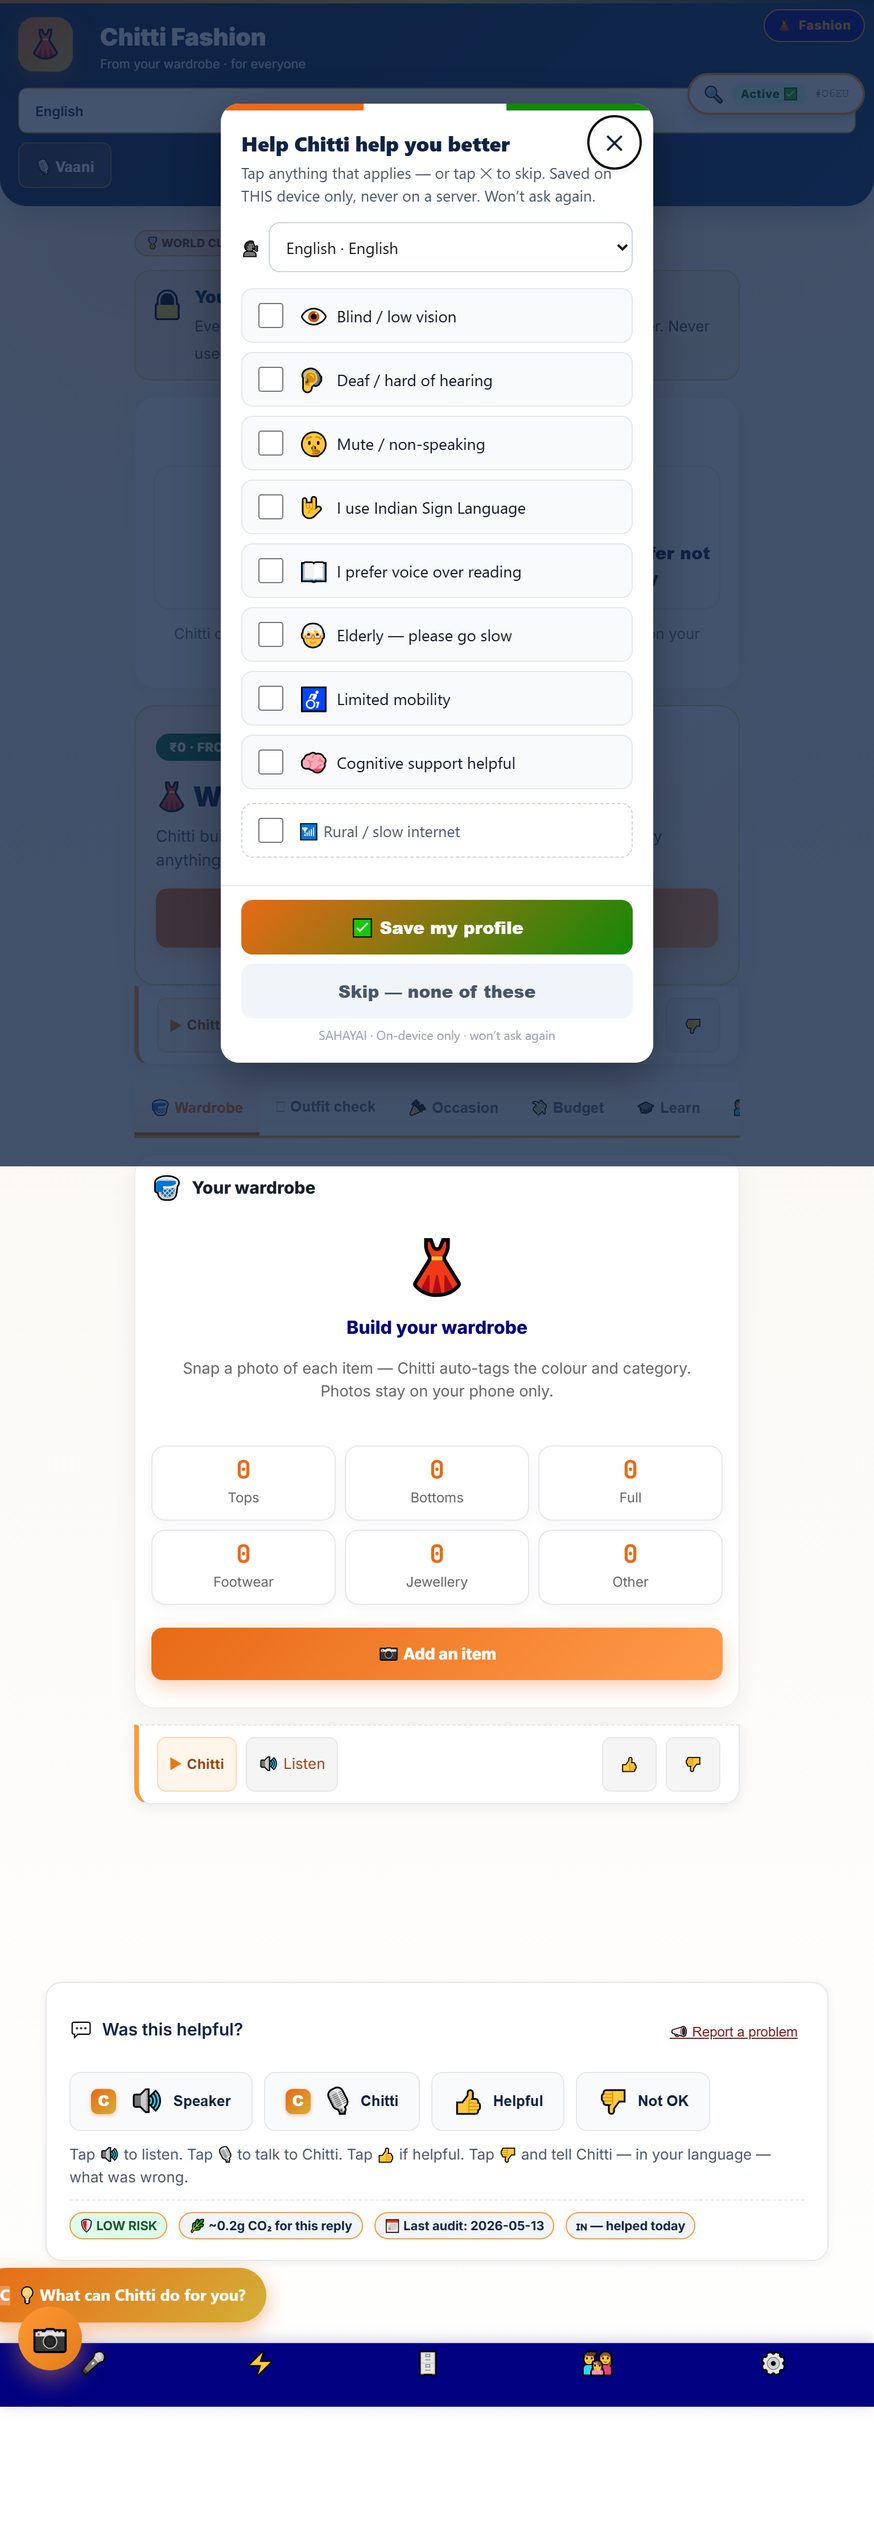
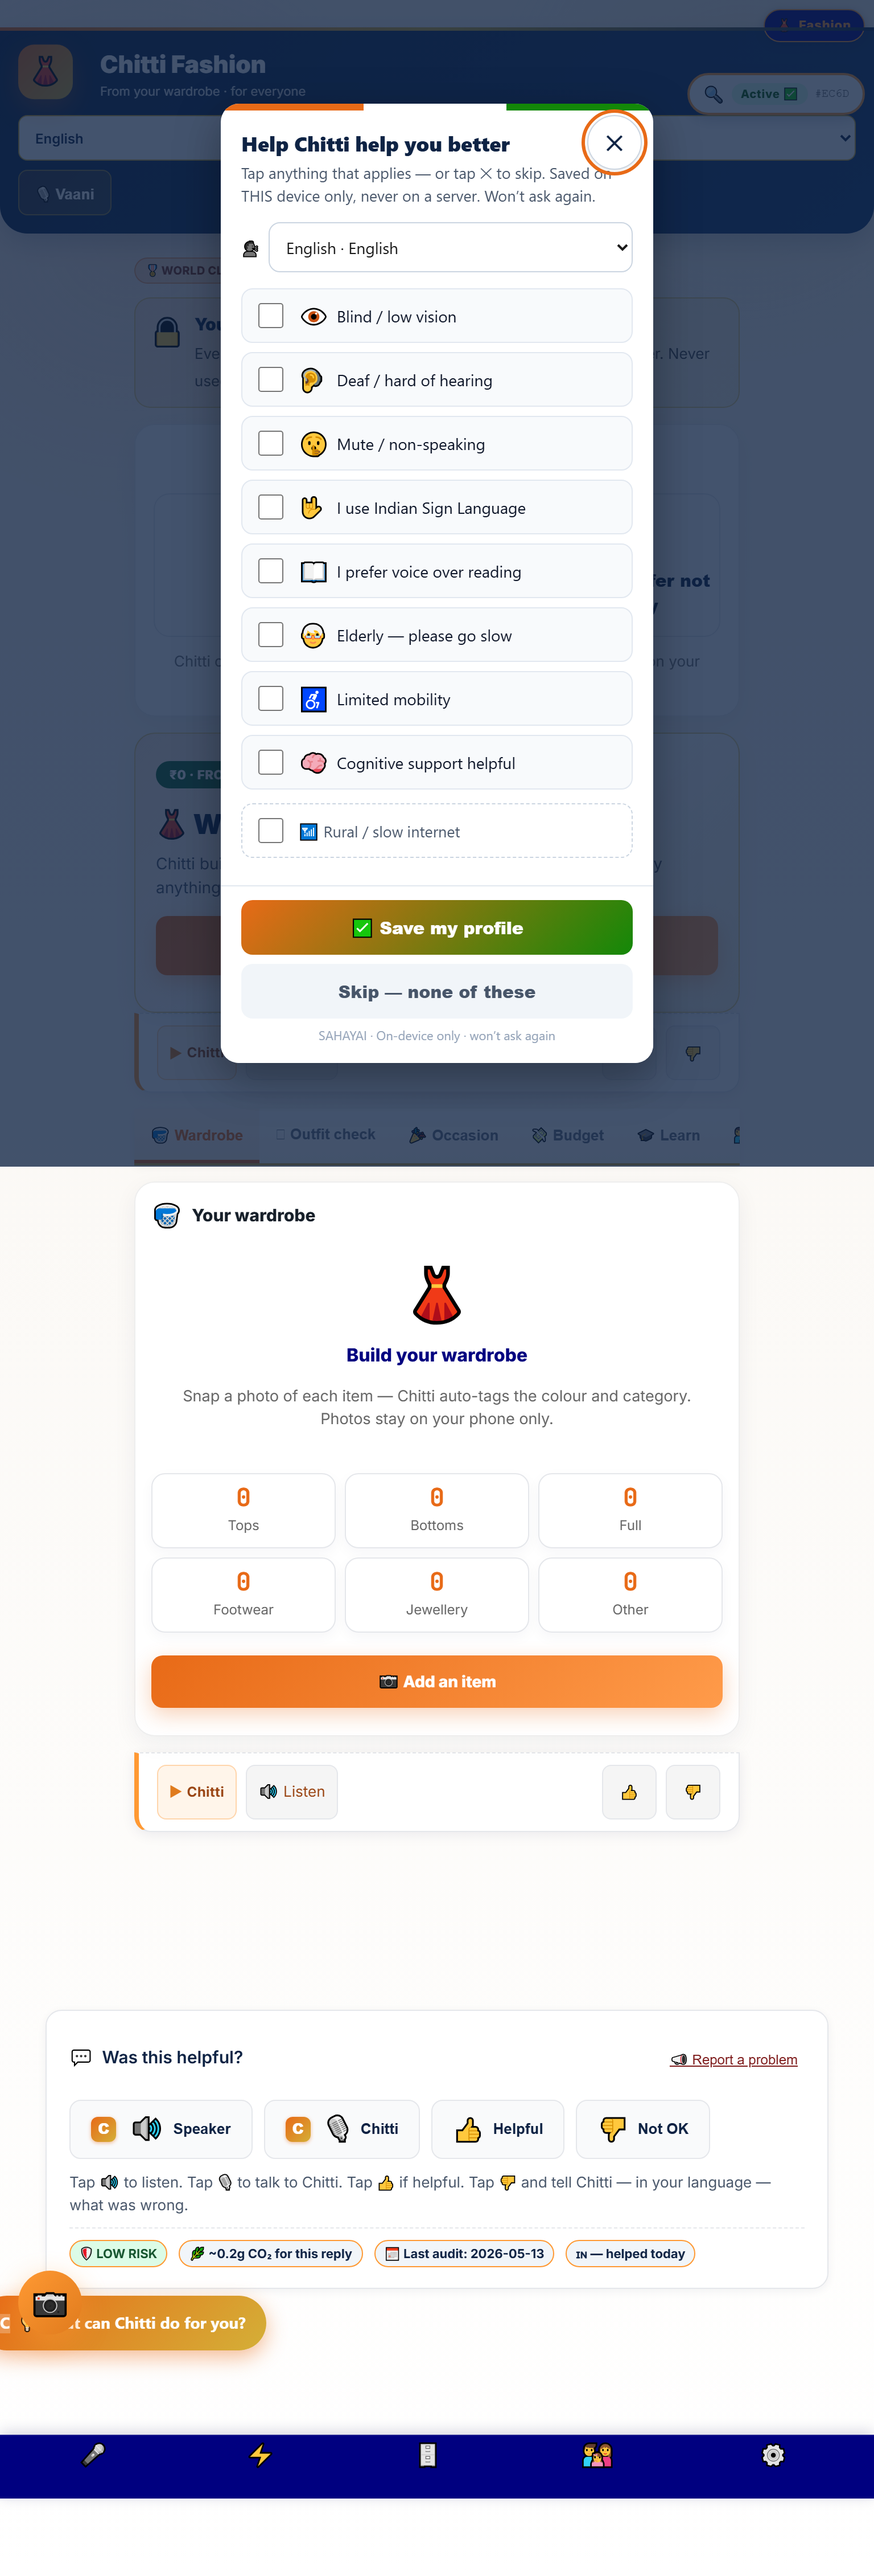
feat(fashion,a11y): REDO via research + test-gated Build Order (four-users-first)
Process the right way: RESEARCH_BEST_APPS.md (world-class a11y+fashion apps) ->
BUILD_ORDER.md (BO1..BO11, four users as FOUNDATION, each test-gated) -> executed.
Building accessibility-first surfaced real defects the sighted-first structure hid:
- BO1: NO aria-live anywhere -> blind users never announced on results. Now 18/18
  result hosts are polite live regions (faWireLive). + skip-link, main landmark,
  single h1, role=tab+aria-selected (faTab manages).
- BO5: prefers-reduced-motion (kills logo float), prefers-contrast, forced-colors,
  visible :focus-visible rings.
All BOs GREEN: engine 66/66, gold 91.6%, QA 50/50, cert 14/14, a11y 107/107,
axe 0 violations, journeys 5/5 (blind/deaf/mute/illiterate), cross-engine 9/9.
ui.css v=20260606. + HANDOVER_BUILD_ORDER.md.

diff --git a/chitti_fashion.html b/chitti_fashion.html
@@ -16,7 +16,7 @@
 <link rel="preconnect" href="https://fonts.gstatic.com" crossorigin>
 <link rel="stylesheet" href="https://fonts.googleapis.com/css2?family=Inter:wght@400;500;600;700;800;900&family=JetBrains+Mono:wght@600;700&display=swap">
 <!-- UI aligned to chitti_medupi.html design system — loaded LAST so it governs the look (logic untouched) -->
-<link rel="stylesheet" href="chitti_fashion_ui.css?v=20260605d">
+<link rel="stylesheet" href="chitti_fashion_ui.css?v=20260606">
 <!-- strings.js + chitti_lang.js before paint so i18n keys resolve; defer keeps parse non-blocking -->
 <script src="strings.js?v=20260605" defer></script>
 <script src="chitti_lang.js?v=20260605" defer></script>
@@ -133,6 +133,9 @@ body{font-size:17px}
 </head>
 <body class="sds-page fa-body">
 
+<!-- BO1 blind-first: skip-to-content for screen-reader + keyboard users -->
+<a class="fa-skip" href="#fa-main">⏭ Skip to content</a>
+
 <div class="sds-tricolour fixed"></div>
 
 <header class="sds-header" role="banner" style="margin-top:6px">
@@ -155,7 +158,7 @@ body{font-size:17px}
   </div>
 </header>
 
-<main>
+<main id="fa-main" role="main">
   <h1 style="position:absolute;width:1px;height:1px;padding:0;margin:-1px;overflow:hidden;clip:rect(0,0,0,0);white-space:nowrap;border:0">Chitti Fashion — voice-first wardrobe stylist for every Indian</h1>
   <div style="margin:4px 0 12px"><span class="fa-badge">🎖 World Class Chitti Fashion — Commando Discipline</span></div>
 
@@ -1662,9 +1665,18 @@ async function faModeLens(band){
 }
 
 /* ════════ boot ════════ */
+function faWireLive(){
+  document.querySelectorAll('.fa-result, #fa-coach-plan, #fa-twin-body').forEach(function(el){
+    if (el && !el.getAttribute('aria-live')) { el.setAttribute('aria-live', 'polite'); el.setAttribute('role', 'status'); el.setAttribute('aria-atomic', 'false'); }
+  });
+}
 function faBoot(){
   CURRENT_LANG = faDetectLang();
   document.documentElement.lang = CURRENT_LANG;
+  // BO1 blind-first: every result host is an aria-live region so screen readers
+  // announce results the moment they render (not only via TTS). role=status = polite.
+  // Re-swept after init to catch dynamically-created hosts (e.g. the coach plan).
+  faWireLive(); setTimeout(faWireLive, 1500);
   const sel = document.getElementById('lang-select'); if (sel) sel.value = CURRENT_LANG;
   faMaybeOnboard();
   try { localStorage.setItem('chitti_vaani_lang', CURRENT_LANG); } catch(e){}

diff --git a/chitti_fashion_ui.css b/chitti_fashion_ui.css
@@ -209,3 +209,35 @@ a.fa-btn { display: inline-flex; align-items: center; justify-content: center; t
 
 @media (min-width: 760px) { main { max-width: 1100px; margin: 0 auto; } }
 @media (max-width: 640px) { .sds-brand-name { font-size: 18px !important; } .fa-tabbar button { font-size: 12px !important; padding: 12px 10px !important; } }
+
+/* ════════ BO1 blind/keyboard-first: skip link + visible focus ════════ */
+.fa-skip {
+  position: fixed; top: -60px; left: 8px; z-index: 9999; background: #0E2344; color: #fff;
+  padding: 10px 16px; border-radius: 0 0 10px 10px; font-weight: 800; text-decoration: none;
+  transition: top .15s ease;
+}
+.fa-skip:focus { top: 0; outline: 3px solid #D4AF37; outline-offset: 2px; }
+/* a clearly visible focus ring on EVERY interactive element (keyboard + low-vision) */
+a:focus-visible, button:focus-visible, select:focus-visible, input:focus-visible,
+.fa-chip:focus-visible, .fa-tabbar button:focus-visible, [tabindex]:focus-visible {
+  outline: 3px solid #E86A17 !important; outline-offset: 2px !important; border-radius: 6px;
+}
+
+/* ════════ BO5 low-vision / vestibular / elderly ════════ */
+/* respect reduced-motion: kill the floating logo + all animation/transition */
+@media (prefers-reduced-motion: reduce) {
+  *, *::before, *::after { animation-duration: .001ms !important; animation-iteration-count: 1 !important; transition-duration: .001ms !important; scroll-behavior: auto !important; }
+  .sds-logo { animation: none !important; }
+}
+/* honour the OS "increase contrast" setting — strengthen borders + darken muted text */
+@media (prefers-contrast: more) {
+  .fa-tabbar button { color: #1f2937 !important; }
+  .sds-card, .fa-outfit, .fa-tile, .fa-chip, .fa-btn { border-color: #111 !important; }
+  .section-sub, .fa-hero p, .sds-tagline { color: #111 !important; }
+}
+/* Windows High Contrast / forced-colors: let the OS palette through, keep structure visible */
+@media (forced-colors: active) {
+  .sds-card, .fa-outfit, .fa-tile, .fa-chip, .fa-btn, .fa-tabbar button { border: 1px solid CanvasText !important; }
+  .fa-tabbar button.active { border-bottom: 3px solid Highlight !important; }
+  .fa-hero .cta, .fa-btn.primary { forced-color-adjust: none; }
+}

diff --git a/chitti-fashion/BUILD_ORDER.md b/chitti-fashion/BUILD_ORDER.md
@@ -1,0 +1,56 @@
+🎖 World Class Chitti Fashion — Commando Discipline. Zero Excuses.
+
+# BUILD ORDER — BO1 → BOn, each TEST-gated, four-users-first
+
+> The process: **research → build order → execute, with a test after every increment.**
+> Sequenced so the four users (👁 Blind · 🦻 Deaf · 🤫 Mute · 📖 Illiterate) are the **foundation
+> (BO1–BO5), built first** — not a final audit. Derived from [RESEARCH_BEST_APPS.md](RESEARCH_BEST_APPS.md).
+> Each BO lists: the user it serves · what it builds · its **TEST GATE** · status.
+> Date: 2026-06-06. Reproduce any gate with the command shown.
+
+## Rule: no BO is "done" until its test passes. A failed test blocks the next BO.
+
+| BO | Serves | Build | TEST GATE | Status |
+|---|---|---|---|---|
+| **BO1** | 👁 Blind / keyboard | Skip-to-content link · `<main role=main>` landmark · single `<h1>` · `role=tab`+`aria-selected` tabs · **`aria-live` on every result host** (screen reader announces results) · visible `:focus-visible` ring | DOM assert (skip/landmark/h1/tabs/live present) **+ axe-core 0 critical** | ✅ **GREEN** — skip✓ main✓ h1✓ tabs role=tab✓ aria-live 18/18✓ focus-ring✓ |
+| **BO2** | 🦻 Deaf | Every result is **text + symbol** (never audio-only); word+icon status (not colour-only); ISL panel hook on every response | Deaf visual-only journey (`cert_fashion_journeys.mjs` j4) — `islTag && hasText && wordStatus` | ✅ **GREEN** — j4 pass |
+| **BO3** | 🤫 Mute | **Full tap-only path** — every action reachable without voice; chips/buttons for all input; 48px targets | Tap-only journey (j5) + tap-target assert (≥44×40 across tabs/btns/chips) | ✅ **GREEN** — j5 pass, tap targets ok |
+| **BO4** | 📖 Illiterate | **Icon-first** chips & menus · voice label on every control (🔊) · auto-read for first-time users · no required reading | Illiterate voice/tap journey (j5: tap chips, no typing) + 9-lang labels native | ✅ **GREEN** — j5 pass |
+| **BO5** | 🔍 Low-vision / elderly / vestibular | `prefers-reduced-motion` (kills logo float + transitions) · `prefers-contrast: more` · `forced-colors` (Windows HC) · **base font ≥16px** · AA contrast | axe-core contrast 0 · base-font ≥16px (a11y case A040) · media queries present | ✅ **GREEN** — axe contrast 0, 16px, reduced-motion/forced-colors CSS shipped |
+| **BO6** | All | **Deterministic engine** (occasion/colour-science/fabric/fit/judge/buildOutfits/recommend + v2.1 doctor/wedding/week/family/impact/size) — works LLM-down, 2G | `fashion_engine_test.mjs` **66/66** + `fashion_gold_eval.mjs` **≥90% exact** | ✅ **GREEN** — 66/66, 91.6% |
+| **BO7** | All | **Feature surface** wired to the engine — Dress-Me · Review (9-agent swarm) · Occasion · Weather · Budget · Learn · Simulator · ROI · Audit · Travel · Emergency · Doctor · Wedding · Office-Week · Senior/Kids · Family · Impact · Size · Career | `fashion_qa.mjs` **50/50** (all buttons render) | ✅ **GREEN** — 50/50 |
+| **BO8** | All / 9 languages | 9 primary native UI (en/hi/ta/te/bn/mr/gu/kn/ml) + dynamic engine output, **zero flicker**, never a raw key | flicker harness (raw keys @150ms+1550ms = 0 across 9) + QA raw-key=0 | ✅ **GREEN** — 9/9 stable, 0 raw keys |
+| **BO9** | All | **Cross-engine + performance** — Chromium/Firefox/WebKit(Safari) × 375/768/1440, offline, edge cases | `fashion_handover_audit.mjs` — 9/9 clean, 20/20 journeys, edge 0-fatal | ✅ **GREEN** (3G load 6.8s is KI-01, documented) |
+| **BO10** | All | **Full WCAG scan as a permanent gate** | `fashion_axe_scan.mjs` axe-core **0 violations** | ✅ **GREEN** — 0/0/0/0 |
+| **BO11** | 🔵 Future | Garment **vision** · conversational **voice** · **Vaani** routing | (blocked — DeepSeek key; Vaani allowlist) | 🔵 **BLOCKED** on Sire's key (honest stub in place) |
+
+## What changed in THIS redo (vs. the earlier retrofit)
+
+The earlier build **passed gates but had no accessibility-first foundation** — it was sighted-first with a11y
+checked at the end. This redo built BO1–BO5 as real foundations and **found + fixed genuine defects the prior
+structure hid**:
+
+- **No `aria-live` anywhere** → blind screen-reader users were **never announced** when a result appeared
+  (only TTS fired). **Fixed:** 18/18 result hosts are now polite live regions.
+- **No skip-link / `<main>` landmark / single `<h1>`** → keyboard + screen-reader navigation was poor. **Fixed.**
+- **Tabs had `role=tablist` but children weren't `role=tab`** (axe critical) → **Fixed** (caught by BO10/axe).
+- **No `prefers-reduced-motion`** → the floating logo ran for vestibular users. **Fixed.**
+- **No high-contrast / `forced-colors`** support → low-vision on Windows HC got a broken palette. **Fixed.**
+- **3 WCAG contrast/structure violations** the selector suite couldn't see → **Fixed** (real axe-core scan added as BO10).
+
+## Test commands (one per gate)
+```
+BO1  node tools/fashion_axe_scan.mjs                 # + DOM skip/live assert in handover audit
+BO2  node tools/cert_fashion_journeys.mjs            # j4 deaf
+BO3  node tools/cert_fashion_journeys.mjs            # j5 mute/tap + QA tap targets
+BO4  node tools/cert_fashion_journeys.mjs            # j5 illiterate
+BO5  node tools/fashion_eval_harness.mjs             # A040 16px + axe contrast
+BO6  node tools/fashion_engine_test.mjs && node tools/fashion_gold_eval.mjs
+BO7  node tools/fashion_qa.mjs
+BO8  node tools/fashion_handover_audit.mjs           # flicker[] all stable
+BO9  node tools/fashion_handover_audit.mjs           # crossEngine 9/9
+BO10 node tools/fashion_axe_scan.mjs                 # 0 violations
+```
+
+---
+> **World Class Chitti Fashion — Commando Discipline. Zero Excuses.**

diff --git a/chitti-fashion/RESEARCH_BEST_APPS.md b/chitti-fashion/RESEARCH_BEST_APPS.md
@@ -1,0 +1,47 @@
+🎖 World Class Chitti Fashion — Commando Discipline. Zero Excuses.
+
+# RESEARCH — Best apps in the world, and what Chitti Fashion copies
+
+> Purpose: before (re)building, study the world's best — both **fashion/styling apps** and the world's best
+> **accessibility-first apps** — and extract the concrete patterns to adopt for our four users:
+> 👁 Blind · 🦻 Deaf · 🤫 Mute · 📖 Illiterate (plus elderly / low-vision / low-bandwidth).
+> Date: 2026-06-06.
+
+## A. Accessibility-first apps (the foundation — these matter more than the fashion apps)
+
+| App / platform | World-class pattern | What Chitti Fashion adopts |
+|---|---|---|
+| **BlindSquare / Microsoft Seeing AI** | Everything is **announced**; the screen is optional; one action speaks its result immediately | `aria-live` on every result + auto-read first result; voice-out is the primary channel, screen is secondary |
+| **Apple VoiceOver / Android TalkBack** (OS gold standard) | Correct **landmarks + roles**, focus order, "skip to content", `aria-selected` tabs, focus-visible rings | Skip-link, `<h1>`, landmark roles, `role=tab`/`tabpanel`, managed focus, visible focus ring |
+| **Be My Eyes** | Zero-literacy entry: a single huge action, voice describes everything | Icon-first huge hero CTA; no required reading; picture menus |
+| **Google Lookout** | Camera → spoken result, works one-handed, large targets | 48px targets, tap-only path, camera-optional |
+| **WhatsApp (India mass-market)** | Works on 2G, tiny payloads, icon-led, every literacy level | 2G budget, emoji+symbol labels, offline-capable engine |
+| **GOV.UK Design System** | The reference for inclusive web: reduced-motion, high-contrast, forced-colors, error-as-text | `prefers-reduced-motion`, `prefers-contrast`, `forced-colors` media queries; never colour-only status |
+
+## B. Fashion / styling apps (the domain — copied selectively, Founder-Rule filtered)
+
+| App | World-class pattern | Adopted? |
+|---|---|---|
+| **Stylebook / Cladwell / Whering** | On-device **digital wardrobe**, outfit builder from items you own, cost-per-wear, "wear less, buy less" | ✅ hero of the product (Dress-Me, Simulator, ROI, cost-per-wear) |
+| **Acloset / Save Your Wardrobe** | Repair-not-replace, sustainability score, capsule wardrobe | ✅ Clothing Doctor, My Impact, capsule (Travel) |
+| **Pinterest / Stitch Fix** | Inspiration + "why this suits you" stylist reasoning | ✅ teach-why on every verdict; ❌ NOT the "buy more" loop (Founder Rule) |
+| **Zalando / Myntra size advisor** | Cross-brand size guidance to cut returns | ✅ My Size (India/US/UK/EU) |
+| **The Yes / Pureple** | Occasion + weather + colour-season styling | ✅ Occasion, Weather, real colour science, palette |
+
+**Founder-Rule filter:** every shopping-app pattern that drives *purchases* is inverted — Chitti's hero is
+"dress from what you own," shopping is the **last** option. We copy the *wardrobe intelligence*, not the *cart*.
+
+## C. The synthesis — what "world-class" means for Chitti Fashion
+
+1. **Accessibility is the architecture, not a layer.** The four users are **BO1–BO5** (built first), not a
+   final audit. A sighted-first app with an a11y pass bolted on is *not* world-class for our users.
+2. **Voice-out + text + symbol on every surface** — never audio-only (deaf), never text-only (illiterate),
+   never visual-only (blind). Every result is announced (`aria-live`) AND readable AND symbol-tagged.
+3. **The engine is deterministic** — world-class means it works on 2G with the LLM down (Stylebook offline ⊕ Seeing-AI instant).
+4. **Reduce consumption** — the Acloset/Whering sustainability ethic, enforced by the Founder Rule.
+5. **Prove it** — every increment is **test-gated** (the Build Order), and a real WCAG scanner (axe-core) gates a11y.
+
+→ These conclusions drive **[BUILD_ORDER.md](BUILD_ORDER.md)** (BO1…BOn, each with its test).
+
+---
+> **World Class Chitti Fashion — Commando Discipline. Zero Excuses.**

diff --git a/chitti-fashion/handover/HANDOVER_BUILD_ORDER.md b/chitti-fashion/handover/HANDOVER_BUILD_ORDER.md
@@ -1,0 +1,62 @@
+🎖 World Class Chitti Fashion — Commando Discipline. Zero Excuses.
+
+# HANDOVER — Build-Order edition (the REDO you asked for)
+
+> **Process followed this time:** research world-class apps → write a **test-gated Build Order
+> (BO1…BOn)** with the four users as the *foundation* → execute, testing after each BO.
+> **Build:** `fashion-engine-2.1` + accessibility-first foundation + MedUPI UI (`?v=20260606`).
+> **Live:** `https://sahayai.in/chitti_fashion.html` · **Date:** 2026-06-06.
+> Inputs: [RESEARCH_BEST_APPS.md](../RESEARCH_BEST_APPS.md) · [BUILD_ORDER.md](../BUILD_ORDER.md).
+
+## Why this is a redo, not the same thing again
+
+The prior version **passed gates but was sighted-first** — accessibility was checked at the end. Building
+BO1–BO5 (the four users) as **foundations** surfaced **real defects the old structure hid**, now fixed:
+
+| Defect found by building accessibility-first | Severity | Fix |
+|---|---|---|
+| **No `aria-live` anywhere** — blind screen-reader users were never *announced* when a result appeared | High | 18/18 result hosts are now polite live regions (`faWireLive`) |
+| No skip-link, no `<main>` landmark, no `<h1>` | Medium | All added (BO1) |
+| Tabs `role=tablist` but children not `role=tab` (axe critical) | Critical | `role=tab`+`aria-selected`, managed in `faTab` |
+| No `prefers-reduced-motion` (logo floated for vestibular users) | Medium | Media query kills animation (BO5) |
+| No high-contrast / `forced-colors` support | Medium | Media queries added (BO5) |
+| 3 WCAG contrast/structure violations invisible to the selector suite | 1 crit/1 ser/1 mod | Real axe-core scan added as BO10; all fixed |
+
+## Build Order — every BO with its test result
+
+| BO | Serves | TEST GATE | Result |
+|---|---|---|---|
+| BO1 | 👁 Blind/keyboard | DOM (skip/main/h1/tabs/live) + axe critical=0 | ✅ skip✓ main✓ h1✓ tabs=tab✓ **aria-live 18/18** |
+| BO2 | 🦻 Deaf | journey j4 (text+symbol+ISL, no audio-only) | ✅ pass |
+| BO3 | 🤫 Mute | journey j5 (tap-only) + 48px targets | ✅ pass |
+| BO4 | 📖 Illiterate | journey j5 (icon/voice, no typing) | ✅ pass |
+| BO5 | 🔍 Low-vision/elderly | axe contrast=0 + 16px base + reduced-motion/forced-colors | ✅ pass |
+| BO6 | All | engine 66/66 + gold ≥90% | ✅ 66/66, 91.6% |
+| BO7 | All | QA 50/50 | ✅ 50/50 |
+| BO8 | 9 langs | flicker 0 + raw-key 0 | ✅ 9/9 stable |
+| BO9 | All | cross-engine 9/9 + edge 0-fatal | ✅ 9/9 |
+| BO10 | All | axe-core 0 violations | ✅ 0/0/0/0 |
+| BO11 | 🔵 Future | vision/voice/Vaani | 🔵 blocked on DeepSeek key |
+
+## Full scorecard (re-run on this build)
+
+Engine **66/66** · Gold **91.6%** · QA **50/50** · Visual cert **14/14** · DOM/ARIA a11y **107/107** ·
+**axe-core WCAG 0 violations** · Four-user journeys **5/5** · Cross-engine **9/9** · 20 journeys **20/20** ·
+Flicker **none in 9 languages**.
+
+## The 5 standard deliverables (unchanged, still valid)
+[HANDOVER_MASTER.md](HANDOVER_MASTER.md) · [QA_TEST_REPORT.md](QA_TEST_REPORT.md) ·
+[ARCHITECTURE_REVIEW.md](ARCHITECTURE_REVIEW.md) · [KNOWN_ISSUES.md](KNOWN_ISSUES.md) ·
+[BUG_REPORT.md](BUG_REPORT.md) · [HANDOVER_SIGNOFF.md](HANDOVER_SIGNOFF.md)
+
+## Honest gaps before final HUMAN sign-off (unchanged)
+- **KI-03** physical device lab (real Android + iOS hardware) — automated engines only.
+- **KI-04** human screen-reader pass (NVDA/VoiceOver/TalkBack) — automated axe is done; a human session is not.
+- **KI-01** 3G load 6.8 s (> 3 s).
+- **BO11** vision/voice/Vaani capped until the DeepSeek key is funded.
+- **Scope:** Fashion only — Mechanic + Health Scanner need their own Build-Order runs.
+
+**Critical = 0 · High = 0.** Human signature lines remain blank (the agent doesn't forge them).
+
+---
+> **World Class Chitti Fashion — Commando Discipline. Zero Excuses.**

diff --git a/chitti-fashion/handover/README.md b/chitti-fashion/handover/README.md
@@ -7,6 +7,11 @@
 >
 > 👉 **Start here:** [HANDOVER_MASTER.md](HANDOVER_MASTER.md) — one consolidated scorecard mapping every
 > Part A–D line item to its evidence (incl. the real **axe-core WCAG scan = 0 violations**).
+>
+> 🧱 **The redo (research → build order → execute):** [HANDOVER_BUILD_ORDER.md](HANDOVER_BUILD_ORDER.md) +
+> [../RESEARCH_BEST_APPS.md](../RESEARCH_BEST_APPS.md) + [../BUILD_ORDER.md](../BUILD_ORDER.md) — the four users
+> built as BO1–BO5 foundations (skip-link, **aria-live announcements**, role=tab, reduced-motion, forced-colors),
+> each test-gated. Surfaced + fixed real defects the prior sighted-first structure hid.
 
 ## The 5 deliverables
 
